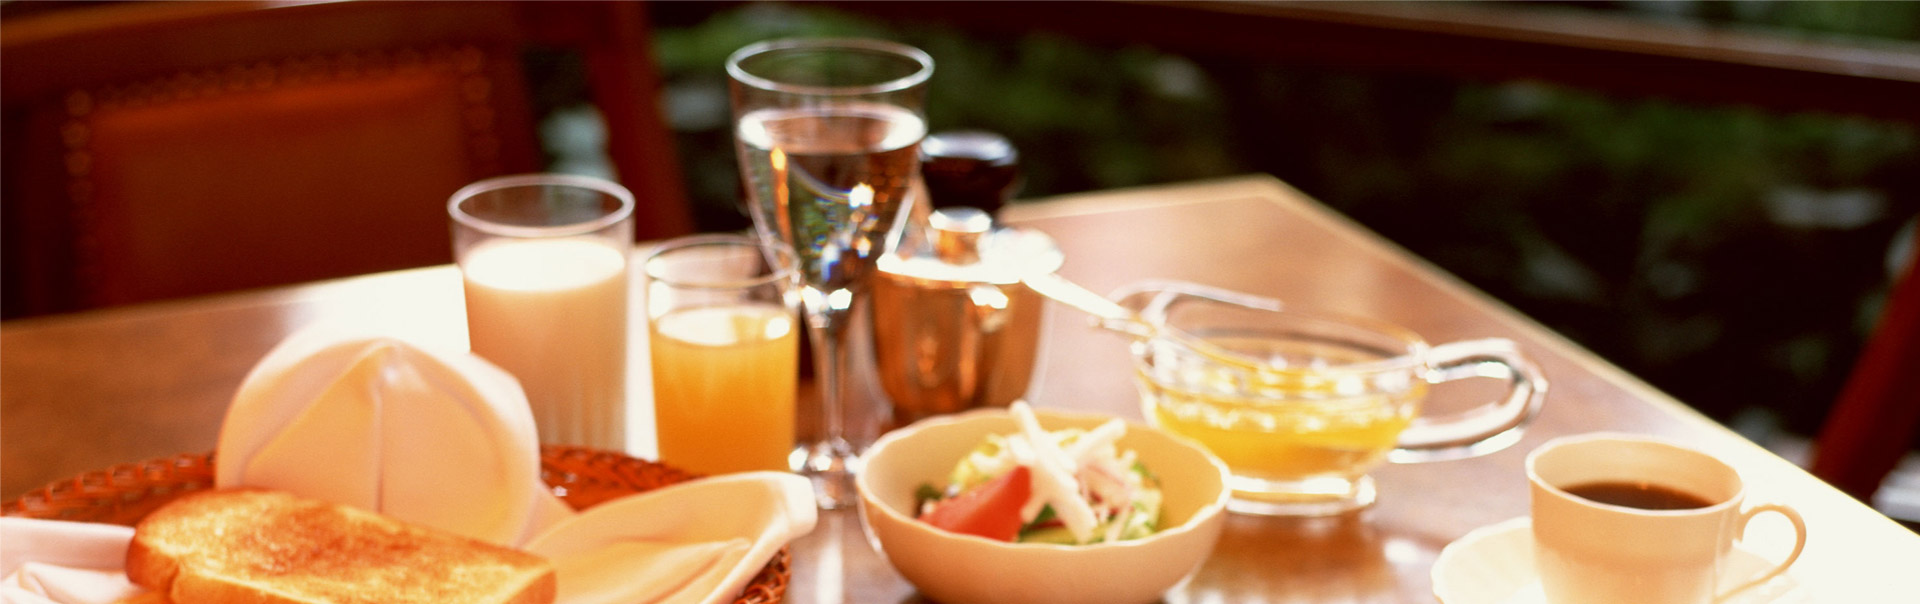
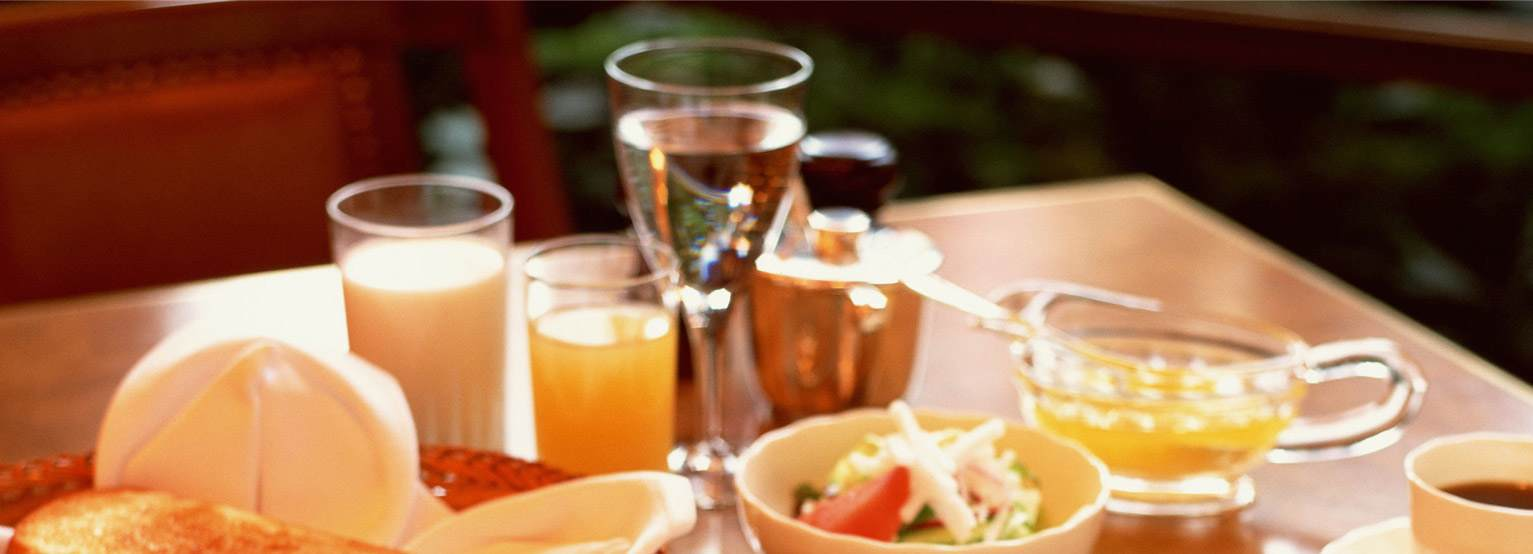
我的订单菜品,首页显示 隐藏菜品问题 登陆切换 注册 忘记密码注释掉 乘号 修改 订单语音验证去掉 banner高度问题 退出图标 单点去掉竖线

diff --git a/app/views/Mod/index.html b/app/views/Mod/index.html
@@ -112,6 +112,15 @@ simpleCart({
 		 },
 	cartStyle: 'div'
 });
+
+%{
+	if(from=="clear"){
+}%
+simpleCart.empty();
+
+%{
+	}
+}%
 </script>
 
 
@@ -171,7 +180,7 @@ simpleCart({
 <div class="des">
 <p class="fl"><strong>${combo.name} </strong>&nbsp;&nbsp;${combo.des} </p>
 <span class="fl">&yen;<em>${combo.price.price}</em></span>
-<a class="fr" href="javascript:;"  id='combo${combo.id}'  onclick="showcart();simpleCart.add({name:'${combo.name}', price: ${combo.price.price},size:'tiny',thumb:'e.png'});">立即订购</a>
+<a class="fr" href="javascript:;"  id='combo${combo.id}'  onclick="showcart();simpleCart.add({name:'${combo.name}', price: ${combo.price.price},thumb:'${combo.url}'});">立即订购</a>
 </div>
 </li>
  #{/list}
@@ -198,7 +207,7 @@ simpleCart({
 #{list mainmeals, as:'meal'}
 <li>
 <a href="#"><img src="${meal.url}" id="img_${meal.id}" /></a>
-<p><a class="fr" href="javascript:;" id='${meal.id}'   onclick="showcart();simpleCart.add({name:'${meal.name}', price: ${meal.price.price},size:'tiny',thumb:'e.png'});">立即订购</a>
+<p><a class="fr" href="javascript:;" id='${meal.id}'   onclick="showcart();simpleCart.add({name:'${meal.name}', price: ${meal.price.price},size:'tiny',thumb:'${meal.url}'});">立即订购</a>
 <span><em>&yen;</em>${meal.price.price}</span><br />
 【${meal.name}】
 </p>
@@ -216,12 +225,12 @@ simpleCart({
 
 
 <div class="wrap tanglei others">
-<h2>汤类</h2>
+<h2>饮料</h2>
 <ul>
 #{list tangmeals, as:'meal'}
 <li>
 <a href="#"><img src="${meal.url}" id="img_${meal.id}" /></a>
-<p><a class="fr" href="javascript:;" id='${meal.id}'   onclick="showcart();simpleCart.add({name:'${meal.name}', price: ${meal.price.price},size:'tiny',thumb:'e.png'});">立即订购</a>
+<p><a class="fr" href="javascript:;" id='${meal.id}'   onclick="showcart();simpleCart.add({name:'${meal.name}', price: ${meal.price.price},thumb:'${meal.url}'});">立即订购</a>
 <span><em>&yen;</em>${meal.price.price}</span><br />
 【${meal.name}】
 </p>

diff --git a/public/Style/main_login.css b/public/Style/main_login.css
@@ -174,7 +174,7 @@ a{text-decoration:none; outline:none}
 .loginBox-top,.loginBox-bottom{width:627px; height:18px; background:url(../images/Box-top-Bg.png) no-repeat}
 .loginBox-bottom{background:url(../images/Box-bottom-Bg.png) no-repeat}
 .login{overflow:hidden}
-.login .left{width:280px; float:left;}
+.login .left{width:280px; float:center;}
 .login .left h2,.register h2{font-size:18px; margin-bottom:30px; color:#fff; font-weight:normal}
 .login .left h2 em{font-size:14px; color:#fff; float:right; font-style:normal; line-height:30px; color:#f28e20}
 .login .left h2 em a{color:#f28e20;}
@@ -185,7 +185,7 @@ a{text-decoration:none; outline:none}
 .login .left label em a:hover{color:#f27800}
 .login .left input{outline:none; padding:0; margin:0; border:none}
 .login .left span{position:absolute;float:left;line-height:36px;left:10px;color:#ccc;cursor:text;font-size:14px; text-indent:40px}
-.login .left .input_txt{width:220px;height:36px; line-height:36px; font-size:14px; background:url(../images/login_icon.png) 10px 0  no-repeat #fff; padding-left:50px; color:#333; font-family:arial}
+.login .left .input_txt{width:320px;height:36px; line-height:36px; font-size:14px; background:url(../images/login_icon.png) 10px 0  no-repeat #fff; padding-left:50px; color:#333; font-family:arial}
 .login .left .input_pass{background-position:10px -36px}
 .login .left .input_submit{height:36px; line-height:36px; font-size:14px; font-family:microsoft yahei; width:120px; background:#f28e1f; color:#fff; border:none; cursor:pointer; outline:none}
 .login .left .input_submit:hover{background-color:#dc5a0f}

diff --git a/app/views/Mod/login.html b/app/views/Mod/login.html
@@ -131,6 +131,13 @@ $("#mask,#maskTop").fadeOut(function() {
 });
 
 	}	
+			
+			function toreg(){
+				
+				
+				parent.mainreg();
+			}
+
 		
 </script>
 </head>
@@ -139,22 +146,14 @@ $("#mask,#maskTop").fadeOut(function() {
 <div class="loginBoxBg">
 <div class="login">
 <div class="left">
-<h2><em><a href="#">没有账号？马上注册！</a></em>账号登录</h2>
+<h2><em><a href="#" onclick="toreg();">没有账号？马上注册！</a></em>账号登录</h2>
 <form class="border_radius" id="focus"  method="post" action="/login_1">
     	<label><span>用户名/邮箱</span><input type="text" class="input_txt" name="adminname"   id="adminname" maxlength="26" /></label>
         <label><span>密码</span><input type="password" class="input_txt input_pass" name="adminpass" id="adminpass" maxlength="30"/></label>   
-        <label><input type="submit" value="登录" class="input_submit"  /><em><a href="#">忘记密码？</a></em></label>
+        <label><input type="submit" value="登录" class="input_submit"  /></label>
 </form>
 </div>
-<div class="right">
-<h2>合作账号登录</h2>
-<ul>
-<li class="qq"><a href="#">腾讯微博</a></li>
-<li class="qq2"><a href="#">腾讯QQ</a></li>
-<li class="weixin"><a href="#">微信账号</a></li>
-<li class="xinlang"><a href="#">新浪微博</a></li>
-</ul>
-</div>
+
 </div>
 </div>
 <div class="loginBox-bottom"></div>

diff --git a/public/Style/main.css b/public/Style/main.css
@@ -19,7 +19,7 @@ a{text-decoration:none; outline:none}
 .nav ul li a:hover{color:#f28e20;}
 .login_reg{width:100px; padding:0 7px; height:51px; background:url(../images/login_reg.png) center no-repeat; line-height:51px; margin-right:50px;}
 .login_reg daobutton{font-size:12px; color:#fff; display:block; width:50%; height:51px; text-align:center; float:right; background:none; border:none; outline:none; cursor:pointer}
-.banner{width:100%;height:604px; background:url(../images/banner.jpg) center top no-repeat}
+.banner{width:100%;height:304px; background:url(../images/banner.jpg) center top no-repeat}
 .shoppingBox{position:fixed;_position:absolute;z-index:1000; width:220px; padding-top:46px; top:30%; right:0; background:url(../images/shoppingBoxIcon.png) right top no-repeat}
 #shpBox{background:url(../images/shoppingBoxBg.png); overflow:hidden}
 #shpBox ul{width:180px; padding:10px 20px; overflow:hidden}

diff --git a/app/views/Mod/cart.html b/app/views/Mod/cart.html
@@ -92,9 +92,9 @@ simpleCart({
 	}, attr: 'custom',label: '数量' },
 		//Name of the item
 	{ attr: "name" , label: '美食篮子' },
-	{ attr: "price" , label: '单价' },
+	
 		//Subtotal of that row (quantity of that item * the price)
-	{ view: 'currency', attr: "total" , label: false }
+	{ view: 'currency', attr: "total" , label: '价格' }
 	],
 	
 	 checkout: {
@@ -245,8 +245,8 @@ function suborder(){
 
 <input class="tel row_tel_edit" id="input_tel"  type="tel" value="${addr.phone}" placeholder="手机号码">
 <input class="bk row_baktel_edit" id="input_baktel" type="text" value="${addr.bakphone}" placeholder="备选电话（选填）">
-
-
+<input class="bk row_baktel_edit" id="input_receiver_name" type="text" value="" placeholder="联系人（选填）">
+<input class="bk row_baktel_edit" id="input_receiver_other" type="text" value="" placeholder="备注（选填）">
 </div>
 </div>
 </div>

diff --git a/public/javascripts/simpleCart.js b/public/javascripts/simpleCart.js
@@ -1156,7 +1156,7 @@
 						data['item_name_' + counter]		= item.get('name');
 						data['item_quantity_' + counter]	= item.quantity();
 						data['item_price_' + counter]		= item.price();
-
+						data['item_url_' + counter]		= item.get('thumb');
 						// create array of extra options
 						simpleCart.each(item.options(), function (val,x,attr) {
 							// check to see if we need to exclude this from checkout
@@ -1181,7 +1181,8 @@
 					data['value_time']=document.getElementById("value_time").value;
 					data['value_time']=document.getElementById("value_time").value;
 					data['value_addr_id']=document.getElementById("value_addr_id").value;
-					
+					data['value_receiver_name']=document.getElementById("input_receiver_name").value;
+					data['value_receiver_other']=document.getElementById("input_receiver_other").value;
 					
 					/*********************/
 

diff --git a/app/views/Mod/profile.html b/app/views/Mod/profile.html
@@ -26,11 +26,11 @@
                      #{list order.orderDetails, as:'detail'}
                     
                     <li>
-                    <a href="#"><img src="/images/shoppingListImg.jpg" /></a>
-                    <p class="item-content fl"><strong><a href="#">特惠套餐一</a></strong>
+                    <a href="#"><img src="/${detail.url}" /></a>
+                    <p class="item-content fl">
                      ${detail.mealName}  </p>
                     <div class="unitPrice fr">
-                    <p> ${detail.totalNum} *  ${detail.price}</p>
+                    <p> ${detail.price}x${detail.totalNum} </p>
                     </div>
                     <div class="clear"></div>
                     </li>

diff --git a/app/views/main_1.html b/app/views/main_1.html
@@ -64,6 +64,17 @@ function mainlogin(){
 		
 }
 
+function mainreg(){
+	
+	$("#mask,#maskTop").fadeOut(function() {
+	    $(this).remove();
+
+	});
+	setTimeout(function(){popWin.showWin("410","500","","/reg");},500);
+	//popWin.showWin("630","360","","/login_1");
+		
+}
+
 </script>
 
 
@@ -78,7 +89,7 @@ function mainlogin(){
         <ul class="fl">
         <li><a href="/index2">首页</a></li>
         <li><a href="#taocan">套餐</a></li>
-        <li><a href="#dandian">单点</a></li>
+        <li class="nobg"><a href="#dandian">单点</a></li>
        
         </ul>
         #{if user}

diff --git a/app/views/Mod/hisprofile.html b/app/views/Mod/hisprofile.html
@@ -30,7 +30,7 @@
                     <p class="item-content fl"><strong><a href="#">特惠套餐一</a></strong>
                      ${detail.mealName}  </p>
                     <div class="unitPrice fr">
-                    <p> ${detail.totalNum} *  ${detail.price}</p>
+                    <p> ${detail.price}x${detail.totalNum}</p>
                     </div>
                     <div class="clear"></div>
                     </li>

diff --git a/app/views/Mod/confirm.html b/app/views/Mod/confirm.html
@@ -126,7 +126,7 @@ $(document).ready(function(){
 <p class="mb5">
 收不到短信？使用
 <a class="dialing-btn voice_btn">
-语音验证码
+人工电话订餐：0531-82991635, 15552875975
 <span class="resend_voice ui_hide">
 </a>
 </p>

diff --git a/app/controllers/Mod.java b/app/controllers/Mod.java
@@ -45,6 +45,7 @@ public class Mod extends Controller{
 	        }
 	        
 	        String userid = session.get("userid");
+	       
 	        if(userid != null) {
 	            return User.findById(Long.valueOf(userid));
 	        }
@@ -66,15 +67,15 @@ public class Mod extends Controller{
 	        }
 	 
 	    
-    	List<Meal> mainmeals = Meal.find("type.mealType= ?", 1).fetch(4);
+    	List<Meal> mainmeals = Meal.find("type.mealType= ? and ishide=?", 1,0).fetch(4);
     	
     	
-    	List<Meal> tangmeals = Meal.find("type.mealType= ?", 3).fetch(4);
+    	List<Meal> tangmeals = Meal.find("type.mealType= ? and ishide=?", 3,0).fetch(4);
     	
     	
     	List<Combo> combos = Combo.all().fetch(0, 4);
     	
-        render(mainmeals,tangmeals,combos);
+        render(mainmeals,tangmeals,combos,from);
 		
        // render();
     }
@@ -112,7 +113,7 @@ public class Mod extends Controller{
 	
 	public static void logout() {
         session.clear();
-        index("");
+        index("clear");
     }
 	
 	public static void cart(){
@@ -149,7 +150,7 @@ public class Mod extends Controller{
 	
 	public static void order(String name) {
 		
-		String addr="",tel="",bak_tel="";
+		String addr="",tel="",bak_tel="",receiver_name="",receiver_other="";
 		
 		int itemCount =0;
 		
@@ -161,6 +162,8 @@ public class Mod extends Controller{
 	        addr=params.get("value_addr");
 	        tel=params.get("value_tel");
 	        bak_tel=params.get("value_tel_bk");
+	        receiver_name=params.get("value_receiver_name");
+	        receiver_other=params.get("value_receiver_other");
 	        
 	        User user = connected();
 			 if(user == null) {
@@ -185,11 +188,14 @@ public class Mod extends Controller{
 		
 		Double total =0.0;
 		Order order = new Order(connected(),s,addr,tel,bak_tel,"offline");
+		order.receiver_name=receiver_name;
+		order.receiver_other=receiver_other;
 		for(int i=1;i<itemCount+1;i++){
 			OrderDetail orderDetail = new OrderDetail();
 			orderDetail.totalNum= Integer.parseInt(params.get("item_quantity_"+i));
 			orderDetail.mealName=params.get("item_name_"+i);
 			orderDetail.price=Double.valueOf(params.get("item_price_"+i));
+			orderDetail.url=params.get("item_url_"+i);
 			
 			total=total+mul(Double.valueOf(params.get("item_price_"+i)),orderDetail.totalNum)      ;
 			orderDetail.save();
@@ -228,7 +234,7 @@ public class Mod extends Controller{
 		page = page != null ? page : 1;
 		
 		List<Order> orders=null ;
-		if(user != null){System.out.println("xxx  "+user.id);
+		if(user != null){
 			renderArgs.put("user", user);
 			if(orderstate.equals("3")){
 				
@@ -237,7 +243,7 @@ public class Mod extends Controller{
 				renderTemplate("Mod/hisprofile.html", orders,page);
 			}else{
 				
-				orders = Order.find("user=? and orderstate!=?", user,"3").fetch(page, 5);
+				orders = Order.find("user=? and orderstate!=? order by date desc", user,"3").fetch(page, 5);
 				render(orders,page);
 			}
 			
@@ -435,7 +441,7 @@ public class Mod extends Controller{
 	
 	
 	public static void confirm(String tel){
-		System.out.println("dddff"+tel);
+		
 		String randomnum= getFixLenthString(6);
 		System.out.println("   GGGGG   "+randomnum);
 		

diff --git a/app/models/Meal.java b/app/models/Meal.java
@@ -31,7 +31,7 @@ public class Meal extends Model{
     
     public String des;
    
-    
+    public int ishide=0;
     
     @OneToOne(cascade=CascadeType.ALL)
     public Price price;
